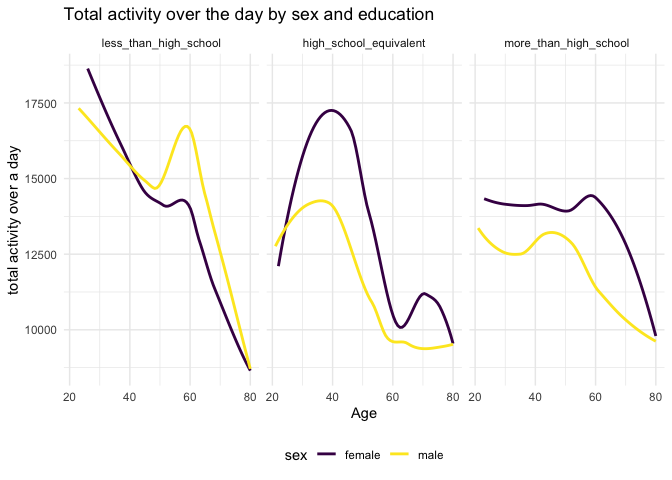
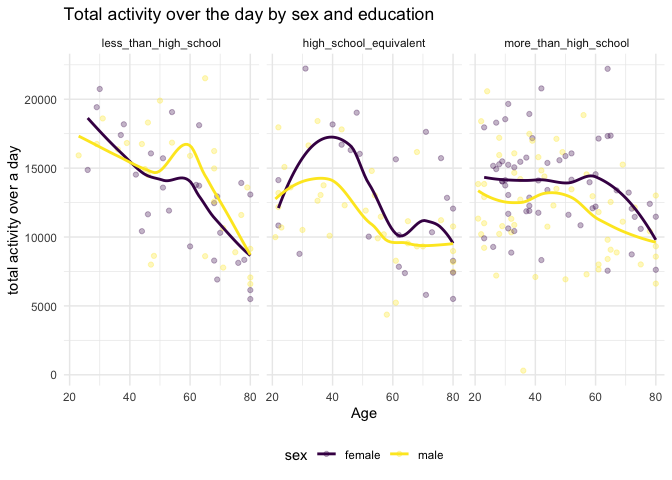
modification

diff --git a/p8105_hw3_sp4170.md b/p8105_hw3_sp4170.md
@@ -448,7 +448,8 @@ final_df |>
   select(seqn, sex, age, education, sum_activity) |> 
   distinct(seqn, .keep_all = TRUE) |> 
   ggplot(aes(x = age, y = sum_activity, color = sex)) +
-  geom_smooth(se = FALSE) +
+  geom_point(alpha = 0.3) +
+  geom_smooth(se = FALSE, alpha = 0.5) +
   facet_grid(. ~ education) +
   labs(
     title = 'Total activity over the day by sex and education',
